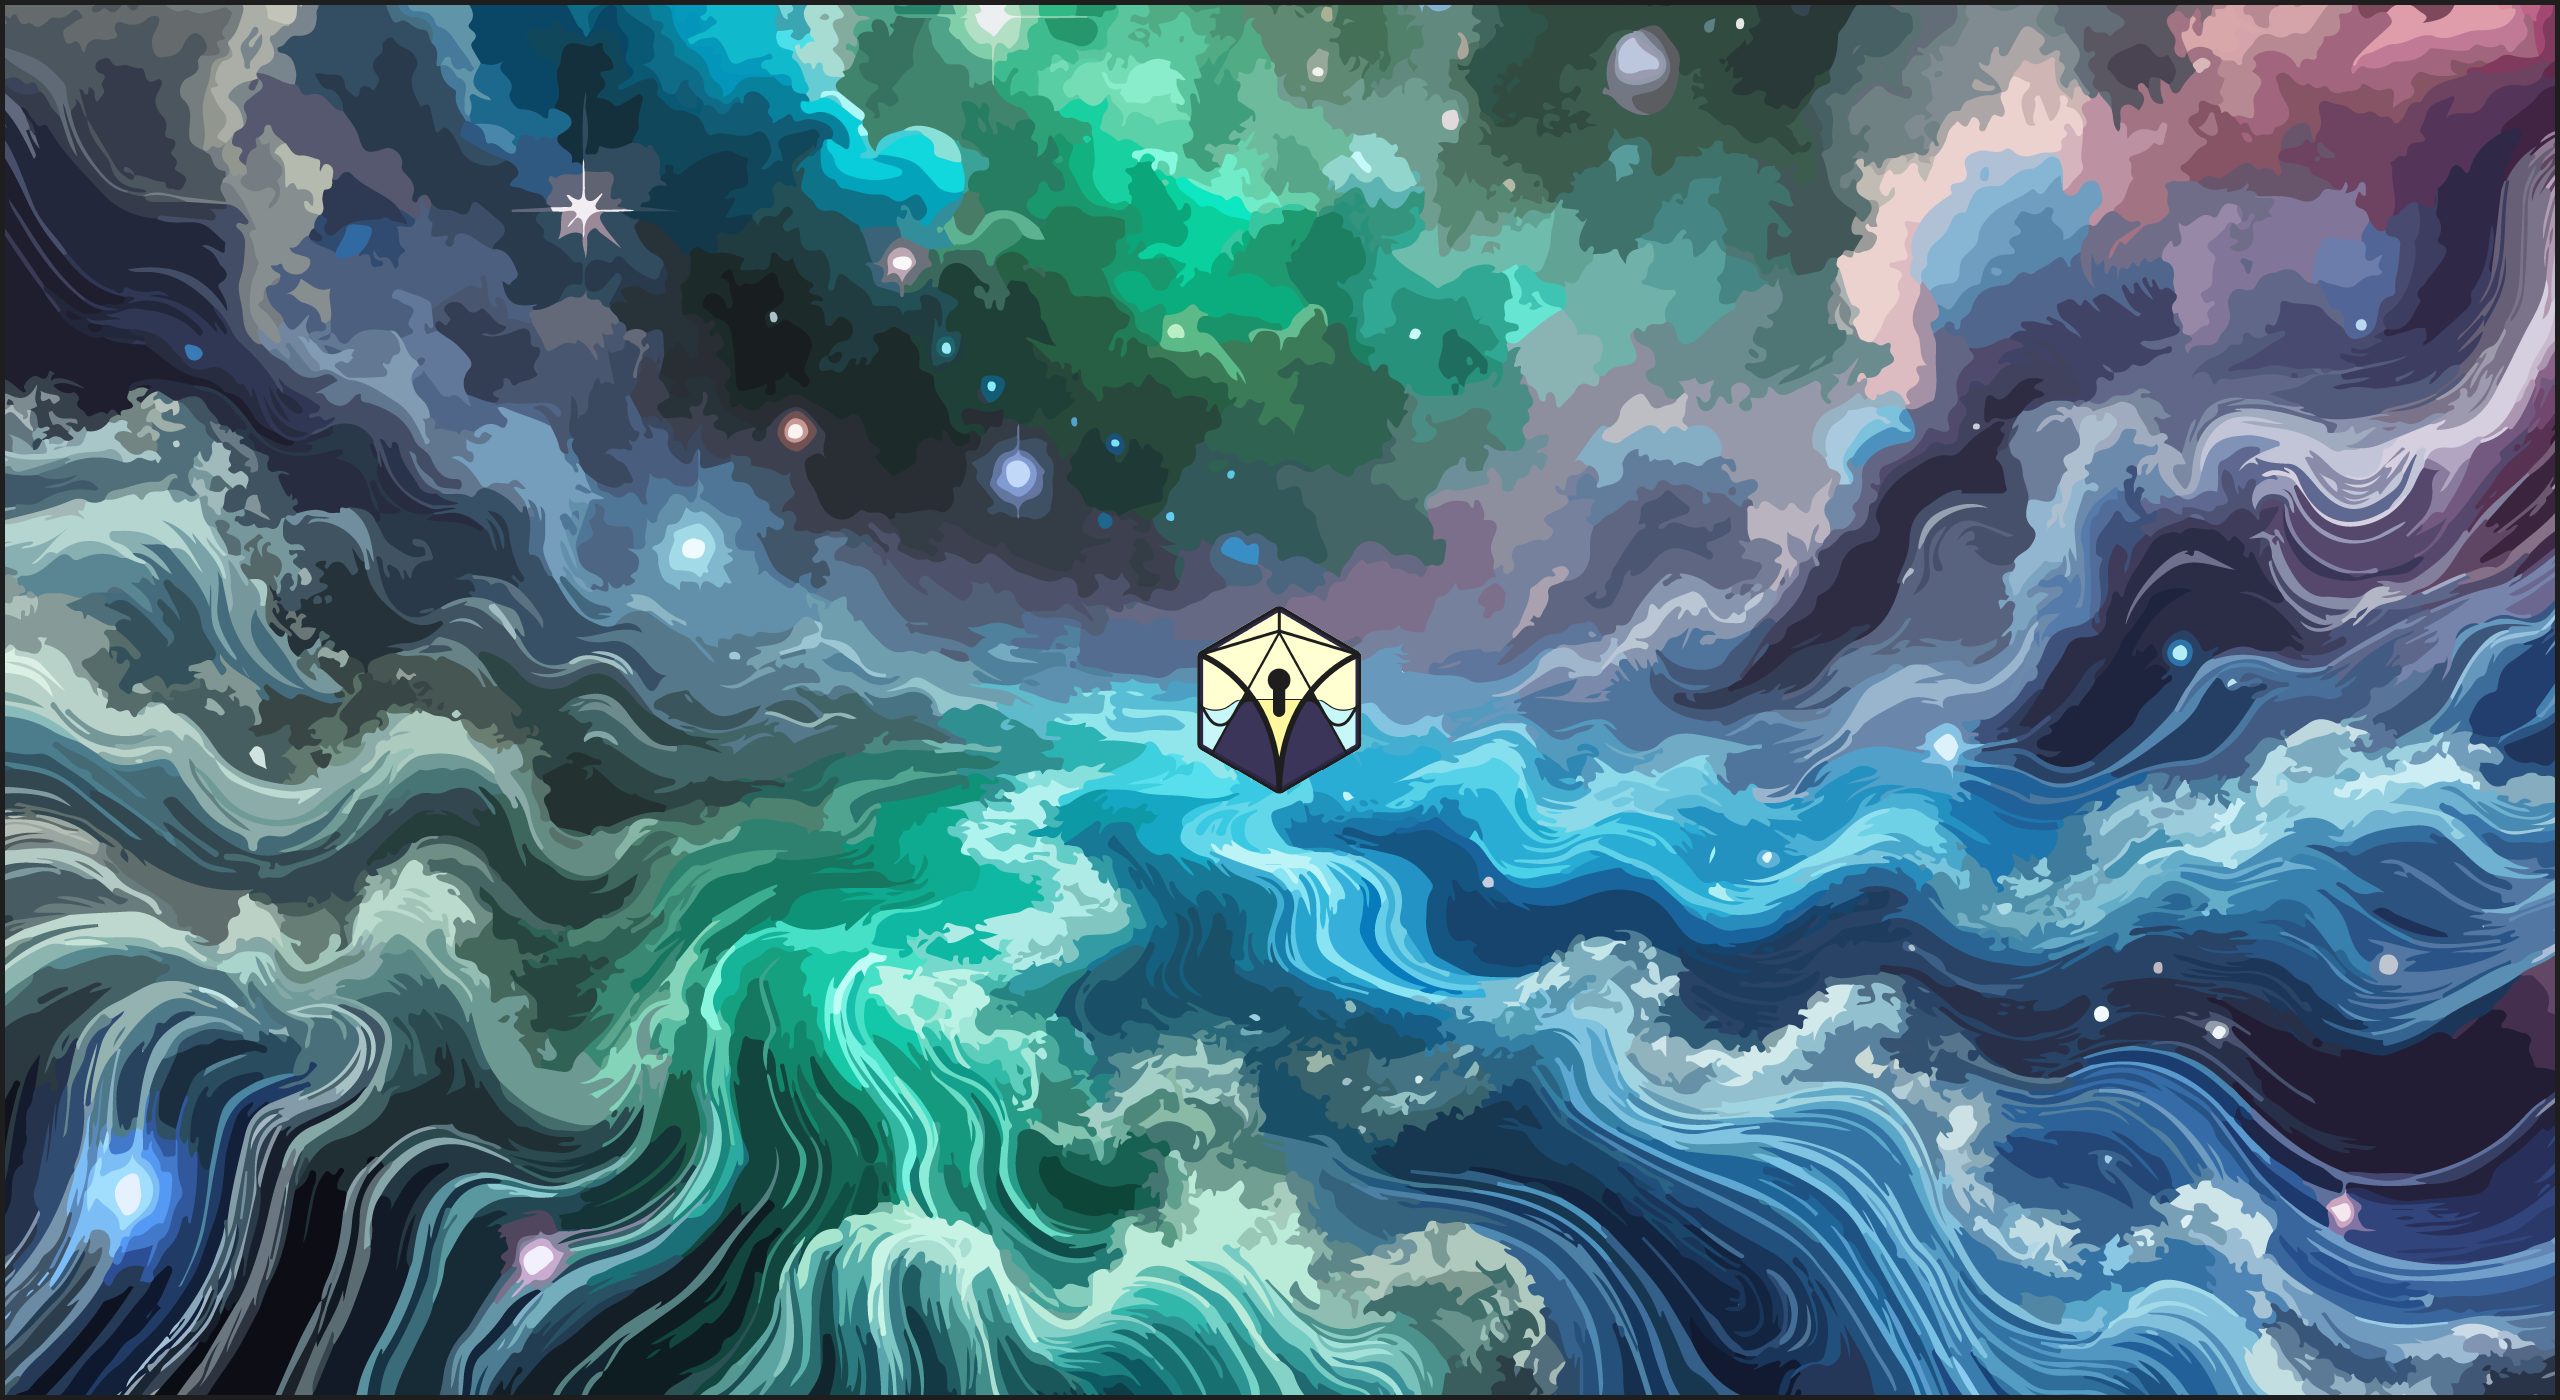
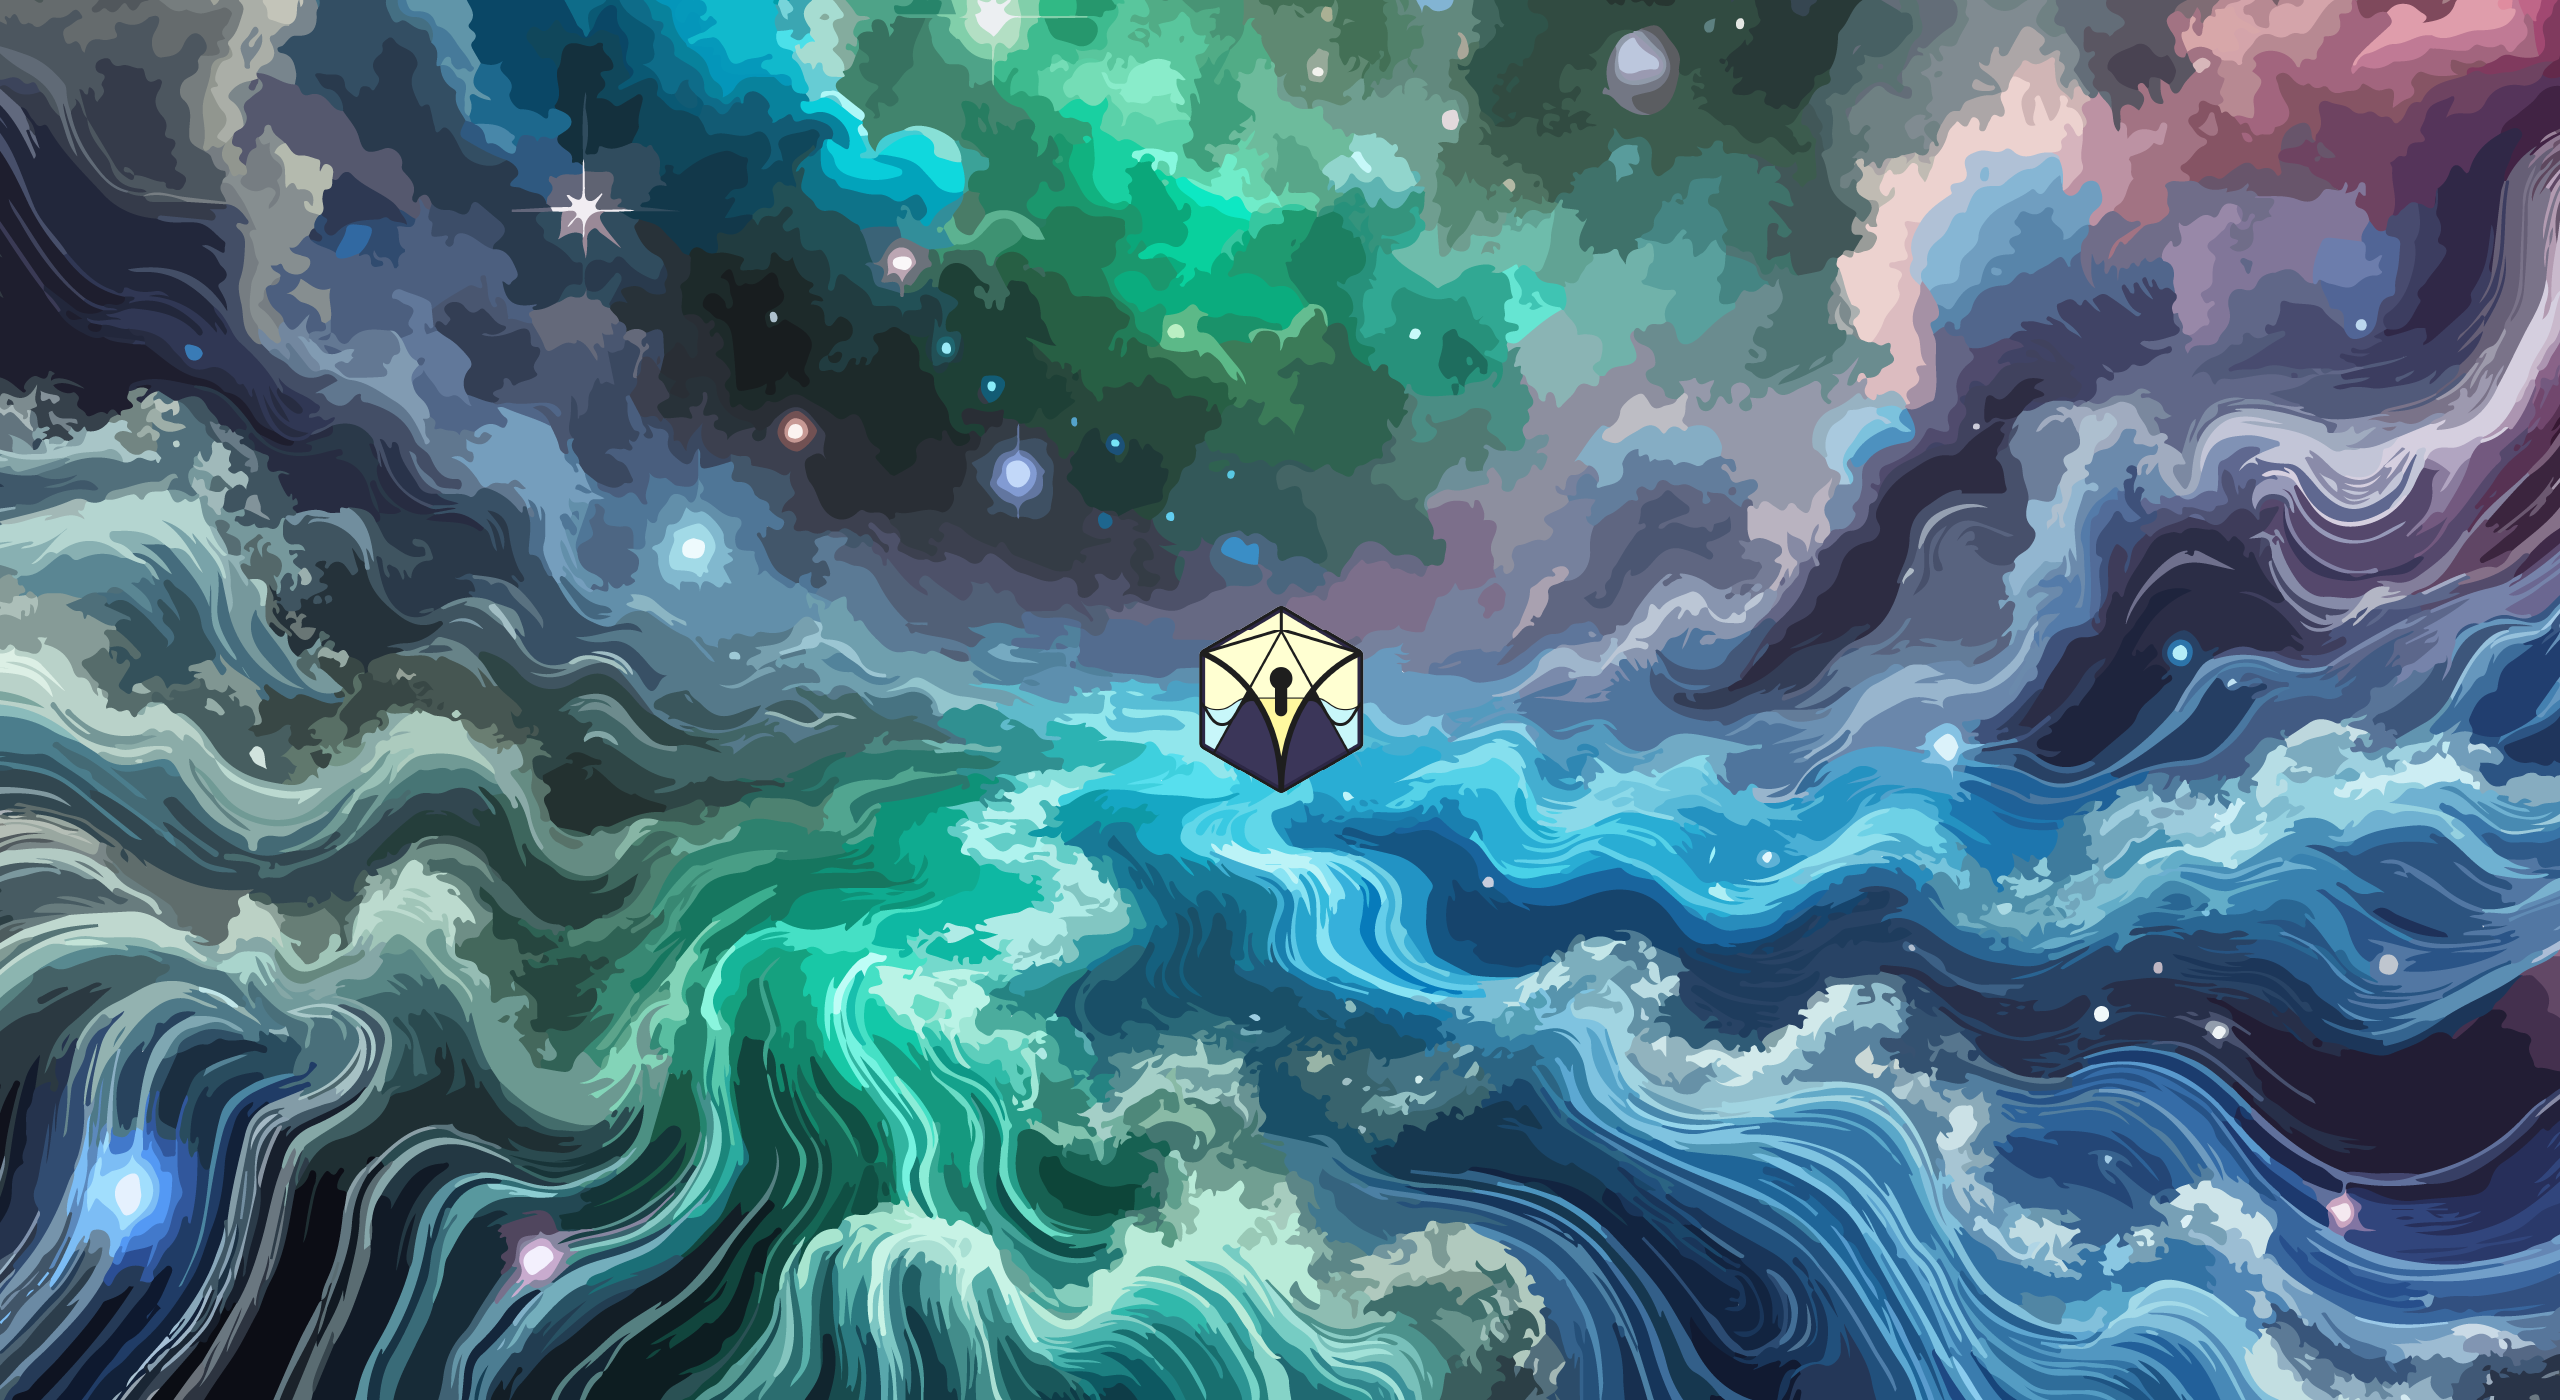
big pogress, index_background 0 & 1

diff --git a/root/css/index_style.css b/root/css/index_style.css
@@ -1,13 +1,38 @@
+html {
+    box-sizing: border-box;
+    border: 0.5vw solid #1e1e1e;
+}
+
+@media (max-width: 768px) and (orientation: portrait) {
+    html {
+        box-sizing: border-box;
+    border: 1vw solid #1e1e1e;
+    }
+}
+
+@media (max-width: 768px) and (orientation: landscape) {
+    html {
+        box-sizing: border-box;
+        border: 1vw solid #1e1e1e;
+        
+    }
+}
+
 html,
 body {
     margin: 0;
     padding: 0;
     overflow-x: hidden;
-    /* Prevents horizontal scrollbars if content overflows */
 }
 
 
-/* Loading overlay style */
+
+
+
+
+
+
+
 #loading-overlay {
     position: fixed;
     top: 0;
@@ -21,6 +46,12 @@ body {
     justify-content: center;
 }
 
+
+
+
+
+
+
 /* Default background for desktops and non-mobile orientations */
 .background-1 {
     background: url('../images/index_background_1.png') no-repeat center center;
@@ -28,12 +59,14 @@ body {
     width: 100%;
     height: 100vh;
     display: block;
+    
 }
 
 /* Mobile Portrait: under 768px wide and portrait orientation, show cropped image */
 @media (max-width: 768px) and (orientation: portrait) {
     .background-1 {
         background-image: url('../images/index_background_1_cropped.png');
+        
     }
 }
 
@@ -51,12 +84,16 @@ body {
     width: 100%;
     height: 100vh;
     display: block;
+    
+    
 }
 
 /* Mobile Portrait: under 768px wide and portrait orientation, show cropped image */
 @media (max-width: 768px) and (orientation: portrait) {
     .background-0 {
         background-image: url('../images/index_background_0_cropped.png');
+        
+        
     }
 }
 
@@ -69,17 +106,20 @@ body {
 
 /* Default background for desktops and non-mobile orientations */
 .background--1 {
-    background: url('../images/index_background_-1.png') no-repeat center center;
+    background: url('../images/index_background_-1.png') no-repeat top center;
     background-size: cover;
     width: 100%;
     height: 100vh;
     display: block;
+    
+    
 }
 
 /* Mobile Portrait: under 768px wide and portrait orientation, show cropped image */
 @media (max-width: 768px) and (orientation: portrait) {
     .background--1 {
         background-image: url('../images/index_background_-1_cropped.png');
+        
     }
 }
 
@@ -90,13 +130,25 @@ body {
     }
 }
 
+
+
+
+
+
+
+
+
+
+
+
+
 /* Nav bars and other styles remain unchanged */
 .top-nav,
 .bottom-nav {
     position: fixed;
-    width: 100%;
+    width: calc(100% - 0.86vw);
     display: grid;
-    grid-template-columns: max-content 1fr max-content;
+    grid-template-columns: max-content auto max-content;
     align-items: center;
     z-index: 1000;
     transition: top 0.3s ease, bottom 0.3s ease;
@@ -108,6 +160,8 @@ body {
     top: -2.4vw;
 }
 
+
+
 .top-nav .nav-left a,
 .top-nav .nav-right a,
 .bottom-nav .nav-left a,
@@ -116,7 +170,7 @@ body {
     color: white;
     text-decoration: none;
     font-size: 2.0em;
-    padding: 0 100px;
+    padding: 0 6vw;
     margin: 0;
 }
 
@@ -136,49 +190,69 @@ body {
 }
 
 .top-nav {
-    height: 11.2vw;
+    height: 11.3vw;
     background-image: url('../images/top_nav.png');
     background-repeat: no-repeat;
-    background-position: center;
+    background-position: top center;
     background-size: contain;
 }
 
 .bottom-nav {
-    height: 6.8vw;
+    height: 6.9vw;
     background-image: url('../images/bottom_nav.png');
     background-repeat: no-repeat;
-    background-position: center;
+    background-position: bottom center;
     background-size: contain;
 }
 
 @media (max-width: 768px) and (orientation: portrait) {
     .top-nav {
-        height: 10vh;
-        width: 100%;
+        height: 11.5vh;
+        width: calc(100% - 1.989vw);
+        background-size: cover;
+        
     }
 
     .bottom-nav {
-        height: 10vh;
-        width: 100%;
+        height: 6.5vh;
+        width: calc(100% - 1.989vw);
+        background-size: cover;
+        
     }
+
+    .top-nav .nav-left a,
+    .top-nav .nav-right a,
+    .bottom-nav .nav-left a,
+    .bottom-nav .nav-right a {
+    font-family: Vendetta, sans-serif;
+    color: white;
+    text-decoration: none;
+    font-size: 0.8em;
+    padding: 0 5px;
+}
+    
 }
 
 @media (max-width: 768px) and (orientation: landscape) {
     .top-nav {
-        height: 50vh;
-        width: 100%;
+        height: 20vh;
+        width: calc(100% - 1.989vw);
     }
 
     .bottom-nav {
-        height: 25vh;
-        width: 100%;
+        height: 13vh;
+        width: calc(100% - 1.989vw);
+    }
+    
+    .top-nav .nav-left a,
+    .top-nav .nav-right a,
+    .bottom-nav .nav-left a,
+    .bottom-nav .nav-right a {
+    font-family: Vendetta, sans-serif;
+    color: white;
+    text-decoration: none;
+    font-size: 1em;
+    padding: 0 10px;
     }
 }
 
-/* background images for background-1 and background--1 remain unchanged */
-.background-1 img,
-.background--1 img {
-    width: 100%;
-    height: auto;
-    display: block;
-}

diff --git a/index.html b/index.html
@@ -6,6 +6,7 @@
     <title>Sea Level</title>
     <link rel="stylesheet" href="https://use.typekit.net/hpo3tdq.css">
     <link rel="stylesheet" href="root/css/index_style.css">
+    <meta name="viewport" content="width=device-width, initial-scale=1.0">
 </head>
 
 <body>
@@ -18,8 +19,8 @@
             <a href="root/scape_world_map.html">World Map</a>
         </div>
         <div class="nav-right">
-            <a href="root/scape_comics.html">Comics</a>
-            <a href="root/corvi.html">Corvi</a>
+            <a href="root/games.html">Games</a>
+            <a href="root/shop.html">Shop</a>
         </div>
     </div>
 
@@ -32,12 +33,12 @@
 
     <div class="bottom-nav">
         <div class="nav-left">
-            <a href="root/games.html">Games</a>
+            <a href="root/comics.html">Comics</a>
             <a href="root/poetry.html">Poetry</a>
         </div>
         <div class="nav-right">
             <a href="root/contact.html">Contact</a>
-            <a href="root/author.html">Author</a>
+            <a href="root/author.html">About</a>
         </div>
     </div>
 
@@ -49,7 +50,7 @@
                 var rect = targetElement.getBoundingClientRect();
                 var elementTop = rect.top + window.pageYOffset;
                 var viewportHeight = window.innerHeight;
-                var focalOffset = 370;
+                var focalOffset = 380;
                 var desiredScrollPosition = elementTop - (viewportHeight / 2) + focalOffset;
                 window.scrollTo({ top: desiredScrollPosition, left: 0, behavior: 'auto' });
             }
@@ -74,7 +75,7 @@
             }
 
             if (scrollPercentage < 0.4) {
-                document.querySelector('.top-nav').style.top = '-200px';
+                document.querySelector('.top-nav').style.top = '-250px';
                 document.querySelector('.bottom-nav').style.bottom = '0';
             } else {
                 document.querySelector('.top-nav').style.top = '0';

diff --git a/root/scape_wiki.html b/root/scape_wiki.html
@@ -3,11 +3,9 @@
 <head>
     <meta charset="UTF-8">
     <title>Scape Wiki</title>
-    <meta name="viewport" content="width=device-width, initial-scale=1.0">
-    <!-- Link to external CSS -->
     <link rel="stylesheet" href="css/scape_wiki_style.css">
-    <!-- Google Fonts (optional) -->
     <link href="https://fonts.googleapis.com/css2?family=Roboto&display=swap" rel="stylesheet">
+    <meta name="viewport" content="width=device-width, initial-scale=1.0">
 </head>
 <body>
 
